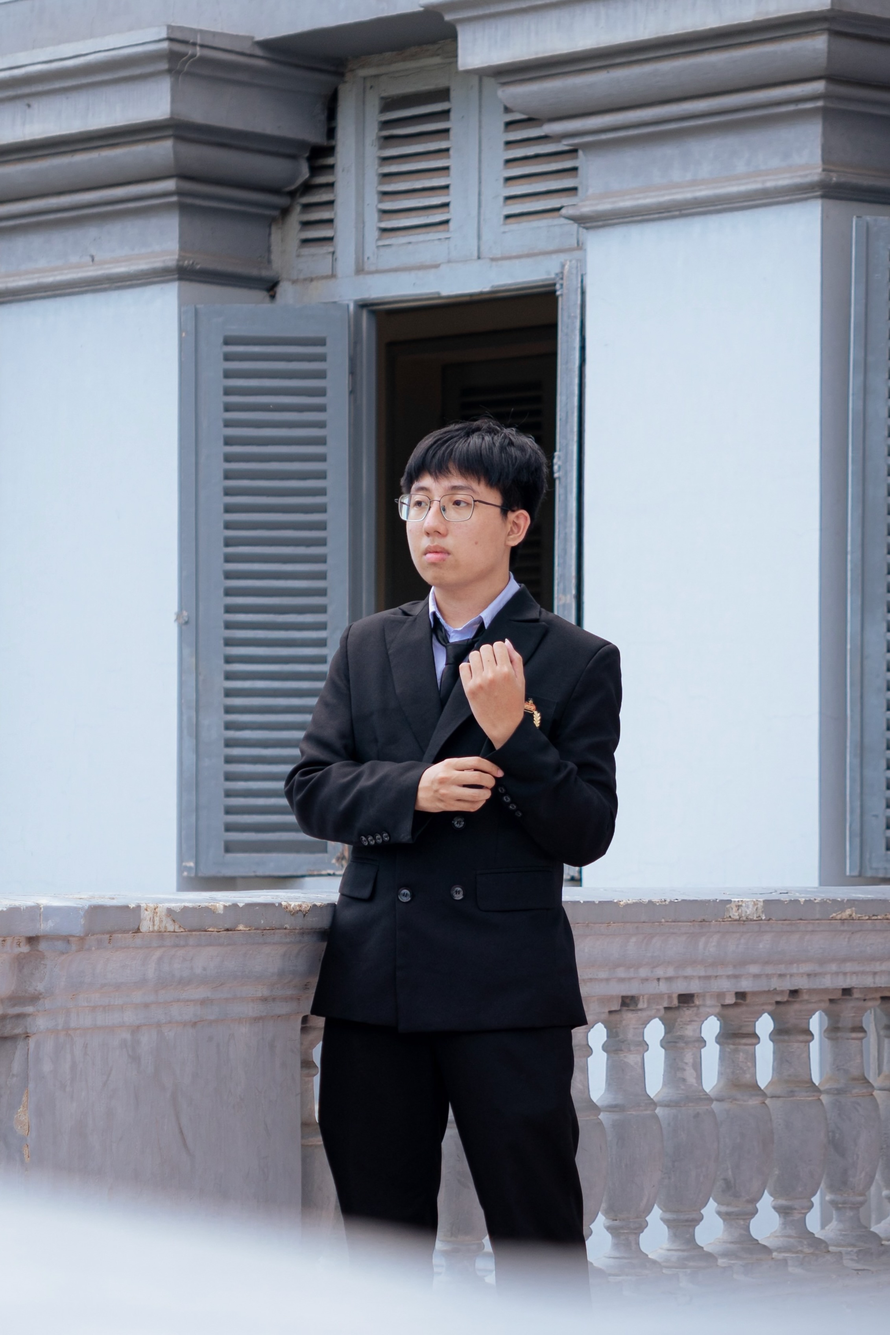
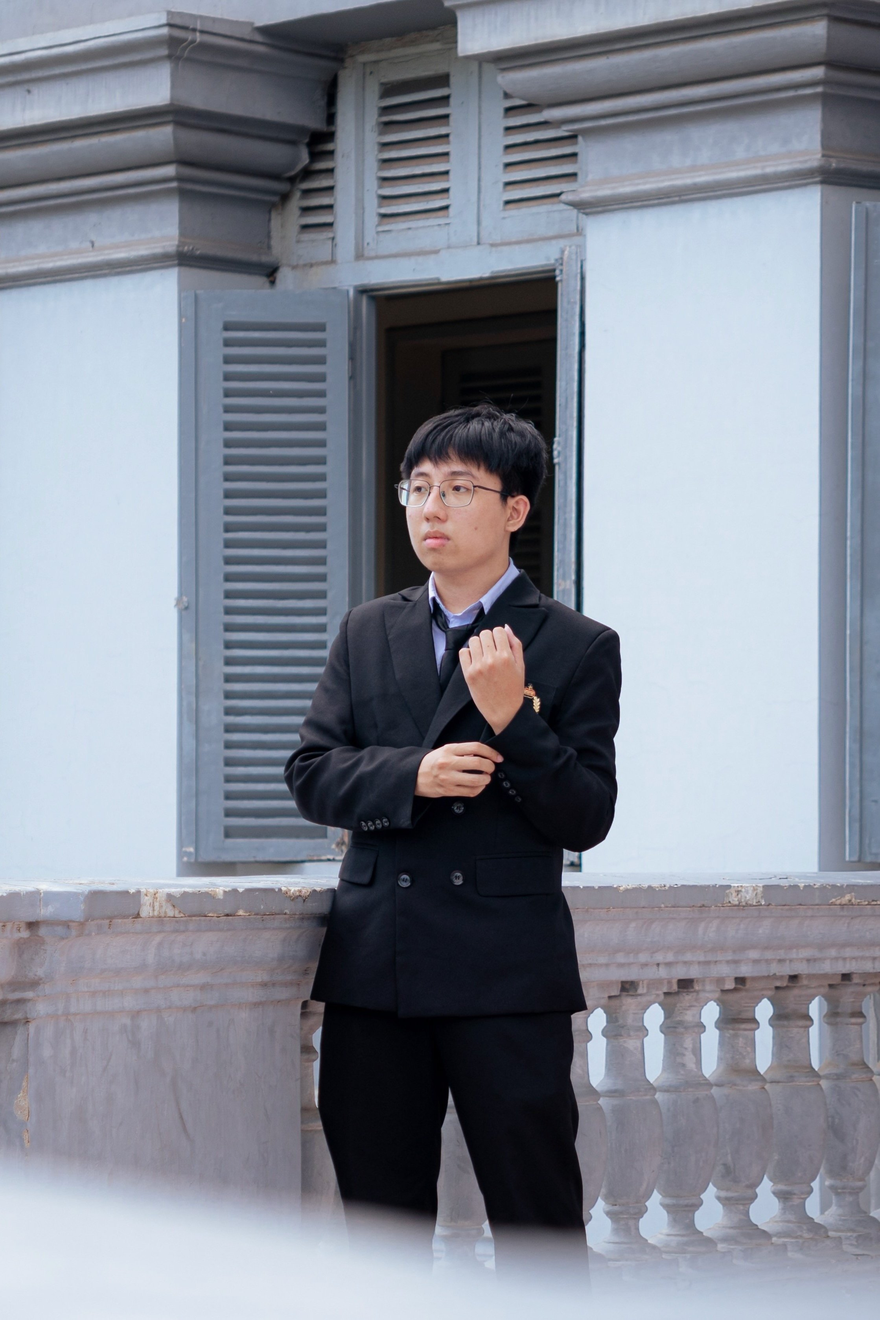
Adding a horizontal frame

diff --git a/src/components/Footer/Footer.tsx b/src/components/Footer/Footer.tsx
@@ -5,7 +5,18 @@ export default function Footer() {
   return (
     <div className="wrap">
       <footer className={`${styles.footer} mono`}>
-        <span className={styles.left}>© {footer.year}</span>
+        <span className={styles.left}>
+          <span>© {footer.year}</span>
+          <span className={styles.divider}>/</span>
+          <a 
+            href={footer.thoughtsUrl} 
+            target="_blank" 
+            rel="noopener noreferrer"
+            className={styles.thoughtsLink}
+          >
+            {footer.thoughtsLabel}
+          </a>
+        </span>
         <span className={styles.right}>
           made by <strong>{footer.name}</strong>
         </span>

diff --git a/src/data/content.ts b/src/data/content.ts
@@ -95,6 +95,8 @@ export interface Socials {
 export interface FooterData {
   name: string;
   year: string;
+  thoughtsLabel: string;
+  thoughtsUrl: string;
 }
 
 export const nav: Nav = {
@@ -301,4 +303,6 @@ export const sectionImages = {
 export const footer: FooterData = {
   name: 'Kyle Dang',
   year: '2026',
+  thoughtsLabel: 'kyle-thoughts.vercel.app',
+  thoughtsUrl: 'https://kyle-thoughts.vercel.app',
 };

diff --git a/src/components/Footer/Footer.module.css b/src/components/Footer/Footer.module.css
@@ -10,7 +10,23 @@
 }
 
 .left {
+  display: flex;
+  align-items: center;
+  gap: 10px;
   letter-spacing: 0.02em;
+}
+
+.divider {
+  opacity: 0.4;
+}
+
+.thoughtsLink {
+  color: var(--text-faint);
+  transition: color 0.15s ease;
+}
+
+.thoughtsLink:hover {
+  color: var(--text);
 }
 
 .right strong { color: var(--text); font-weight: 600; }

diff --git a/src/components/shared/ImageBreak.module.css b/src/components/shared/ImageBreak.module.css
@@ -3,6 +3,7 @@
   overflow: hidden;
   padding: 0 clamp(16px, 3vw, 48px);
   box-sizing: border-box;
+  background-color: var(--surface);
 }
 
 .img {
@@ -10,7 +11,6 @@
   width: 100%;
   height: 560px;
   object-fit: contain;
-  background-color: var(--surface);
 }
 
 @media (max-width: 860px) {
